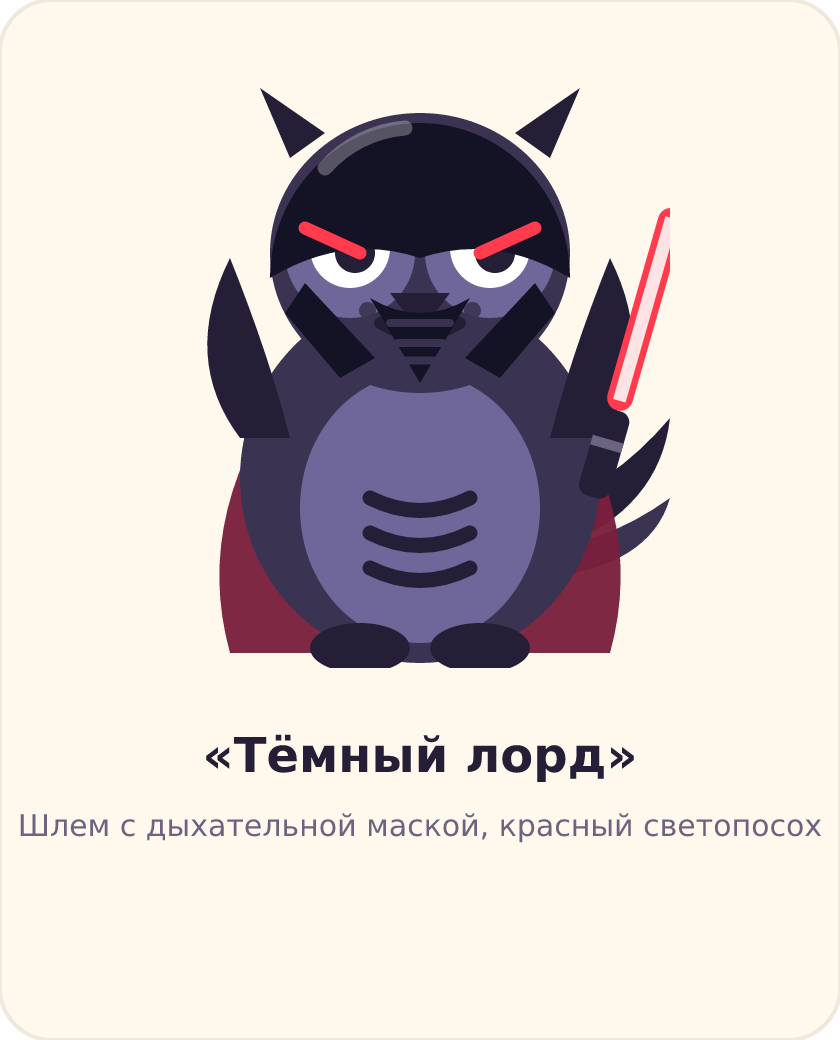
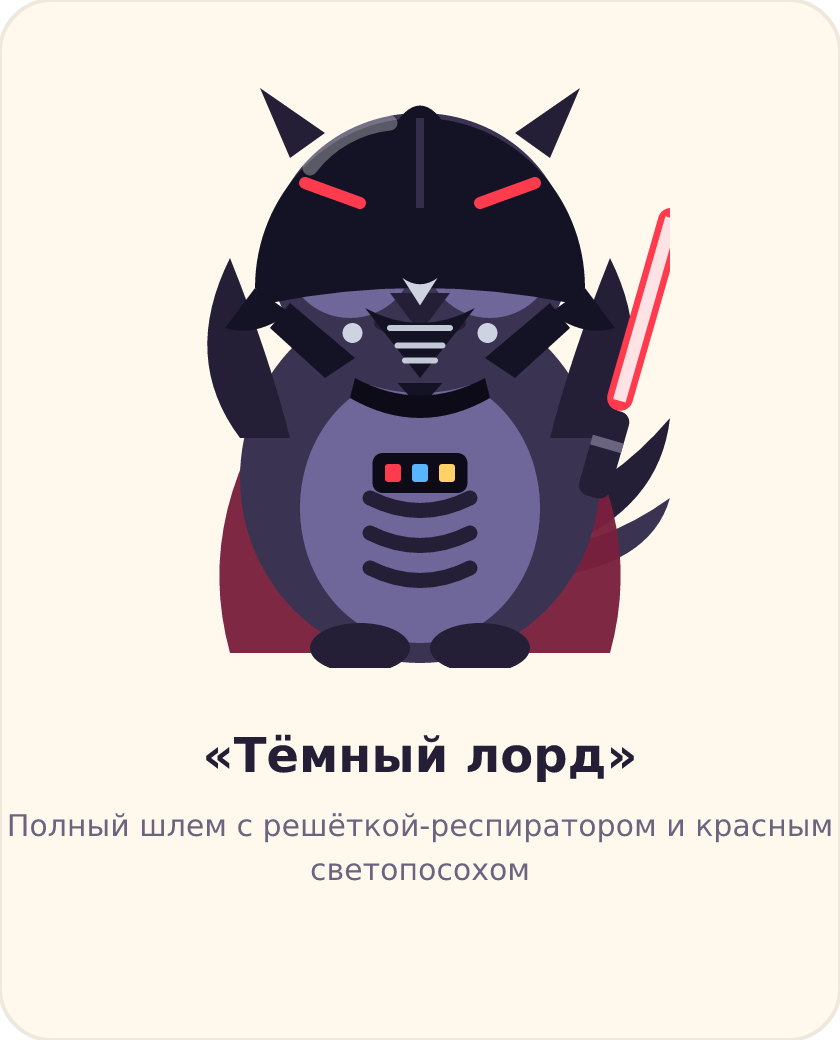
polish(costumes): узнаваемость «ближе к кино» — полный шлем лорда, Т-визор клона, нос-трубка стража
Сверка с каноническими элементами образа (экспертный разбор референсов):
- dark-lord ('lord-mask'): колоколообразный купол с раструбами, гребень-«мохавк»
  с центральным швом и бликом, V-бровка над глазами (не закрывает зрачки),
  серебристый нос-датчик, ДВА треугольных ротовых вентиля с решёткой, «клыки»
  с круглыми концами, ворот и нагрудная панель с тремя замками — «черепной»
  силуэт из руководства по костюмированию; имя и описание остаются нейтральными;
- snow-guard: Т-визор под полупрозрачным синим стеклом (глаза видно сквозь
  тонировку), основание антенны на темени, коммуникаторы-«таблетки» на висках
  и скуловые пластины — узнаваемый шлем клона-разведчика;
- steel-keeper: нос-трубка и горизонтальная щель рта — мотив тёмного штурмовика.

Превью docs/promo/2026-10-01 перегенерированы. typecheck/content/adaptive/smoke/build — зелёные.

diff --git a/src/ui/MascotLook.tsx b/src/ui/MascotLook.tsx
@@ -82,40 +82,73 @@ export function CostumeCape({ c }: { c: Costume }) {
 /** Шлемы и головные уборы — рисуем ПОСЛЕ аксессуаров, поверх мордочки. */
 export function CostumeHead({ c }: { c: Costume }) {
   switch (c.helmet) {
-    case 'mask': // «Стальной страж»: купол, красные брови, «дыхатель» на клюве
+    case 'mask': // «Стальной страж»: тёмный штурмовик — бровка-«очки», нос-трубка, щель рта
       return (
         <g>
           <path d="M20 42 A30 31 0 0 1 80 42 Q65 33 50 38 Q35 33 20 42Z" fill={c.trim} />
           <path d="M27 32 L38 37 M73 32 L62 37" stroke={c.glow} strokeWidth="2.6" strokeLinecap="round" fill="none" />
-          <path d="M43 50 L50 58 L57 50 Q50 53.5 43 50Z" fill={c.trim} />
+          <path d="M48.3 43 H51.7 V52 H48.3Z" fill={c.trim} />
+          <path d="M43.5 55.5 H56.5" stroke={c.trim} strokeWidth="2.2" strokeLinecap="round" />
         </g>
       );
-    case 'lord-mask': // «Тёмный лорд»: полный шлем-купол со щёчными пластинами и треугольной маской-респиратором
+    case 'lord-mask': {
+      // «Тёмный лорд»: шлем по мотивам киношного оригинала — колоколообразный купол
+      // с раструбом, гребень-«мохавк», V-бровка, «черепные» скулы, серебро носа,
+      // ДВА треугольных ротовых вентиля с решёткой, «клыки»-кнопки, ворот и нагрудная панель.
+      const silver = '#cdd3e0';
       return (
         <g>
-          <path d="M20 42 A30 31 0 0 1 80 42 Q65 33 50 38 Q35 33 20 42Z" fill={c.trim} />
-          {/* блик на куполе — «полированный металл» */}
-          <path d="M31 20 A24 24 0 0 1 47 12" stroke="#ffffff" strokeWidth="3" strokeLinecap="round" fill="none" opacity=".28" />
-          <path d="M27 32 L38 37 M73 32 L62 37" stroke={c.glow} strokeWidth="2.6" strokeLinecap="round" fill="none" />
-          {/* щёчные пластины: расходятся от шлема к маске */}
-          <path d="M27 43 L41 58 L34 62 L23 49Z" fill={c.trim} />
-          <path d="M73 43 L59 58 L66 62 L77 49Z" fill={c.trim} />
-          {/* дыхательная маска на клюве: треугольник-респиратор с решёткой */}
-          <path d="M40 46 L50 63 L60 46 Q50 52 40 46Z" fill={c.trim} />
-          <path d="M44 51 H56 M45.5 55 H54.5 M47 58.5 H53" stroke={c.body} strokeWidth="1.6" strokeLinecap="round" opacity=".95" />
-          <circle cx="39.5" cy="48.5" r="1.7" fill={c.body} opacity=".9" />
-          <circle cx="60.5" cy="48.5" r="1.7" fill={c.body} opacity=".9" />
+          {/* купол: чуть шире головы, нижний край — «юбкой» до уровня глаз */}
+          <path d="M17 44 A33 34 0 0 1 83 44 L80 47 Q50 41 20 47Z" fill={c.trim} />
+          {/* раструбы «колокола» по бокам */}
+          <path d="M17 44 L11 52 Q17 54 24 49Z" fill={c.trim} />
+          <path d="M83 44 L89 52 Q83 54 76 49Z" fill={c.trim} />
+          {/* гребень на темени + центральный шов */}
+          <path d="M44 13 Q50 2 56 13 Q50 9 44 13Z" fill={c.trim} />
+          <path d="M50 10 V28" stroke={c.body} strokeWidth="1.6" opacity=".85" />
+          {/* блик полированного металла */}
+          <path d="M28 20 A23 23 0 0 1 44 11" stroke="#ffffff" strokeWidth="3" strokeLinecap="round" fill="none" opacity=".3" />
+          {/* V-бровка «впаяна» в нос: нахмуренный козырёк над глазами */}
+          <path d="M21 30 L38 26 L50 33 L62 26 L79 30 L62 33 L50 40 L38 33Z" fill={c.trim} />
+          <path d="M27 23 L38 27 M73 23 L62 27" stroke={c.glow} strokeWidth="2.4" strokeLinecap="round" fill="none" />
+          {/* угловатые скулы — «черепной» силуэт */}
+          <path d="M24 47 L37 58 L31 62 L20 52Z" fill={c.trim} />
+          <path d="M76 47 L63 58 L69 62 L80 52Z" fill={c.trim} />
+          {/* серебристый «нос-датчик» */}
+          <path d="M46.5 42 L50 47.5 L53.5 42 Q50 44.5 46.5 42Z" fill={silver} />
+          {/* верхний ротовой вентиль (больше) и нижний (меньше) — как в оригинале */}
+          <path d="M39 48 L50 62 L61 48 Q50 54 39 48Z" fill={c.trim} />
+          <path d="M44 52 H56 M45.5 55.5 H54.5 M47 58.5 H53" stroke={silver} strokeWidth="1.2" strokeLinecap="round" opacity=".95" />
+          <path d="M45.5 63 L50 68 L54.5 63Z" fill={c.trim} />
+          {/* «клыки» с круглыми концами по краям решётки */}
+          <circle cx="36.5" cy="53" r="2" fill={silver} />
+          <circle cx="63.5" cy="53" r="2" fill={silver} />
+          {/* ворот шлема: переход к груди */}
+          <path d="M37 62 Q50 69 63 62 L64 66 Q50 74 36 66Z" fill="#0d0b18" />
+          {/* нагрудная панель управления с «войсковыми застёжками» */}
+          <rect x="40.5" y="77" width="19" height="8" rx="2" fill="#0d0b18" />
+          <rect x="43" y="79.2" width="3.2" height="3.6" rx=".6" fill="#ff3b4d" />
+          <rect x="48.4" y="79.2" width="3.2" height="3.6" rx=".6" fill="#58b6ff" />
+          <rect x="53.8" y="79.2" width="3.2" height="3.6" rx=".6" fill="#ffd166" />
         </g>
       );
-    case 'visor': // «Белый воин»: белый шлем с «бровкой» на уровне глаз; синий визор поднят на купол
+    }
+    case 'visor': // «Белый воин»: шлем клона — Т-визор под синим тонированным стеклом (глаза видно),
+      // «таблетки» связи на висках и скуловые пластины
       return (
         <g>
-          {/* край шлема проходит над зрачками (y≈35): глаза открыты, как у штурмовика со поднятым стеклом */}
-          <path d="M20 40 A30 30 0 0 1 80 40 L80 41 Q50 28 20 41Z" fill={c.trim} />
-          {/* поднятое визорное стекло лежит на куполе */}
-          <path d="M28 19 H72 L66 27 H34Z" fill={c.glow} opacity=".92" />
-          {/* короткая «ночка» Т-визора на лбу — не дотягивается до глаз */}
-          <path d="M47 27 H53 L51.5 33 H48.5Z" fill={c.glow} opacity=".85" />
+          <path d="M20 42 A30 31 0 0 1 80 42 L80 45 Q50 40 20 45Z" fill={c.trim} />
+          {/* гребень-основание антенны на темени */}
+          <path d="M46 12 Q50 5 54 12 Q50 9 46 12Z" fill={c.wing} />
+          {/* Т-визор: полупрозрачное стекло — фирменный силуэт клона, но БУК узнаваем */}
+          <path d="M27 31 H73 L65 39 H55 L52 48 H48 L45 39 H35Z" fill={c.glow} opacity=".42" />
+          <path d="M27 31 H73 L65 39 H55 L52 48 H48 L45 39 H35Z" fill="none" stroke="#1d4ed8" strokeWidth=".9" opacity=".8" />
+          {/* коммуникаторы на висках */}
+          <circle cx="24" cy="40" r="3.1" fill={c.wing} />
+          <circle cx="76" cy="40" r="3.1" fill={c.wing} />
+          {/* скуловые/челюстные пластины */}
+          <path d="M29 46 L37 54 L32 57 L25 50Z" fill={c.wing} />
+          <path d="M71 46 L63 54 L68 57 L75 50Z" fill={c.wing} />
         </g>
       );
     case 'hood': // «Мастер Света» / «Ученик Тьмы»: капюшон-кольцо и складки по бокам

diff --git a/src/engine/puzzles.ts b/src/engine/puzzles.ts
@@ -41,7 +41,7 @@ export const COSTUMES: Costume[] = [
   {
     id: 'dark-lord',
     title: 'Тёмный лорд',
-    desc: 'Шлем с дыхательной маской, красный светопосох',
+    desc: 'Полный шлем с решёткой-респиратором и красным светопосохом',
     body: '#3a3352',
     belly: '#6f679a',
     wing: '#241f36',
